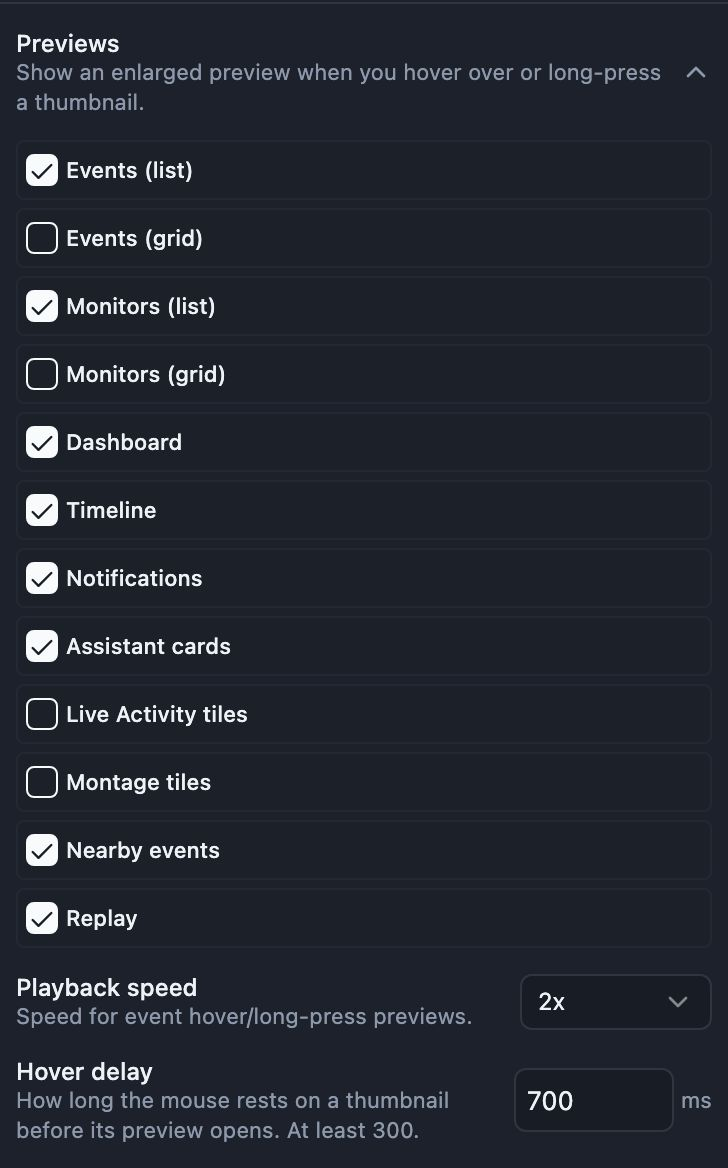
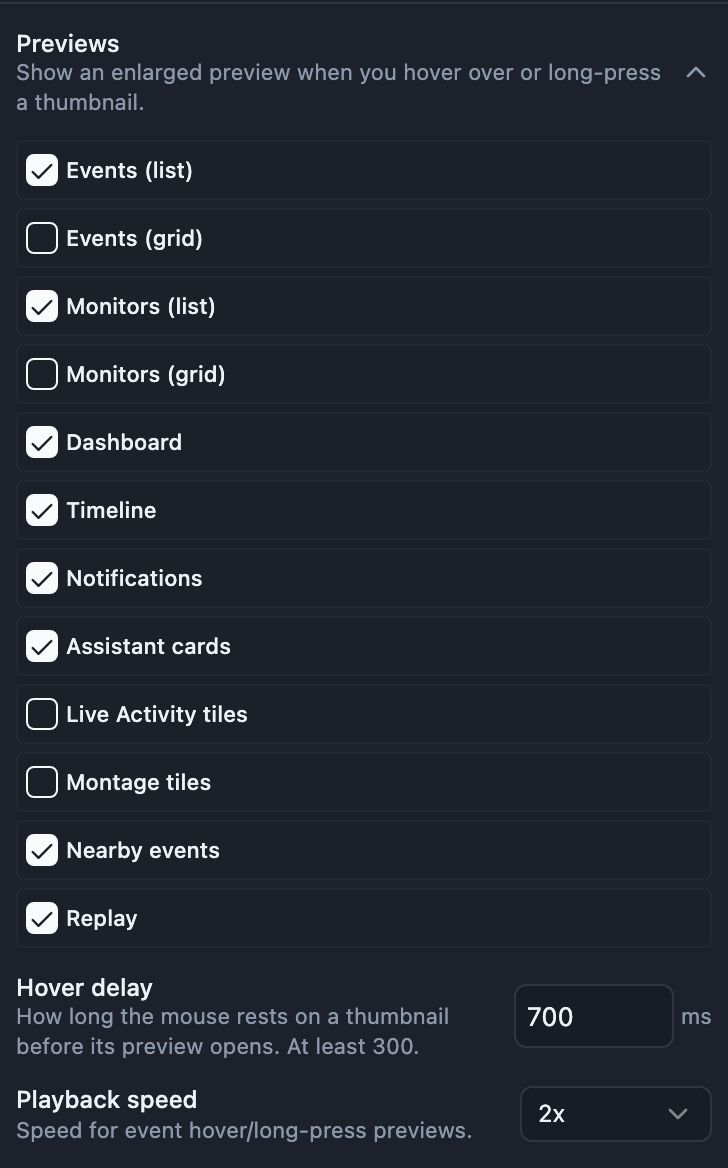
fix: put the hover delay box above playback speed
Refs #611

diff --git a/app/src/components/settings/HoverPreviewEditor.tsx b/app/src/components/settings/HoverPreviewEditor.tsx
@@ -120,6 +120,30 @@ export function HoverPreviewEditor({
             </li>
           ))}
         </ul>
+        {/* The iOS and Android builds open previews with a long press on its own timer. */}
+        {Platform.isDesktopOrWeb && (
+          <div className="flex items-center justify-between gap-3 px-4 pb-3">
+            <RowLabel
+              label={t('settings.appearance.hover_preview.hover_delay')}
+              desc={t('settings.appearance.hover_preview.hover_delay_desc')}
+            />
+            <div className="flex items-center gap-2 shrink-0">
+              <Input
+                type="number"
+                min={MIN_HOVER_PREVIEW_DELAY_MS}
+                step={100}
+                value={delayDraft}
+                onChange={(e) => setDelayDraft(e.target.value)}
+                onBlur={commitDelay}
+                onKeyDown={(e) => { if (e.key === 'Enter') e.currentTarget.blur(); }}
+                className="w-20"
+                aria-label={t('settings.appearance.hover_preview.hover_delay')}
+                data-testid="settings-hover-preview-delay"
+              />
+              <span className="text-xs text-muted-foreground">{t('settings.appearance.hover_preview.delay_unit')}</span>
+            </div>
+          </div>
+        )}
         <div
           className="flex items-center justify-between gap-3 px-4 pb-3"
           data-testid="settings-hover-preview-playback-rate-row"
@@ -147,30 +171,6 @@ export function HoverPreviewEditor({
             </SelectContent>
           </Select>
         </div>
-        {/* The iOS and Android builds open previews with a long press on its own timer. */}
-        {Platform.isDesktopOrWeb && (
-          <div className="flex items-center justify-between gap-3 px-4 pb-3">
-            <RowLabel
-              label={t('settings.appearance.hover_preview.hover_delay')}
-              desc={t('settings.appearance.hover_preview.hover_delay_desc')}
-            />
-            <div className="flex items-center gap-2 shrink-0">
-              <Input
-                type="number"
-                min={MIN_HOVER_PREVIEW_DELAY_MS}
-                step={100}
-                value={delayDraft}
-                onChange={(e) => setDelayDraft(e.target.value)}
-                onBlur={commitDelay}
-                onKeyDown={(e) => { if (e.key === 'Enter') e.currentTarget.blur(); }}
-                className="w-20"
-                aria-label={t('settings.appearance.hover_preview.hover_delay')}
-                data-testid="settings-hover-preview-delay"
-              />
-              <span className="text-xs text-muted-foreground">{t('settings.appearance.hover_preview.delay_unit')}</span>
-            </div>
-          </div>
-        )}
       </CollapsibleContent>
     </Collapsible>
   );

diff --git a/docs/user-guide/settings.md b/docs/user-guide/settings.md
@@ -69,7 +69,7 @@ The server rows under General hold **Hidden Monitors**. See [Hidden Monitors](#h
 ```{figure} ../_static/img/screens/settings/previews.jpg
 :align: center
 :width: 360px
-:alt: Previews folded open, with a checkbox for each screen and a Playback speed picker and a Hover delay box
+:alt: Previews folded open, with a checkbox for each screen and a Hover delay box and a Playback speed picker
 
 Previews folded open
 ```
@@ -87,9 +87,9 @@ Previews enlarge a feed or event in place when you hover over it on desktop, or 
 - Nearby events
 - Replay (tiles in the nearby events Replay grid; the preview copies the tile's own picture, so it opens no second connection)
 
-The **Playback speed** control (0.5x, 1x, 1.5x, 2x, 4x) sets how fast an event preview plays. Live monitor previews open a fresh stream while the preview is on screen and close it when you move away.
-
 On desktop and in a browser, **Hover delay** sets how long, in milliseconds, the mouse has to rest on a thumbnail before its preview opens. It starts at 700, and anything under 300 is saved as 300. The iOS and Android apps don't show it, because a preview there opens on a long press.
+
+The **Playback speed** control (0.5x, 1x, 1.5x, 2x, 4x) sets how fast an event preview plays. Live monitor previews open a fresh stream while the preview is on screen and close it when you move away.
 
 ### Fullscreen when turned sideways
 
